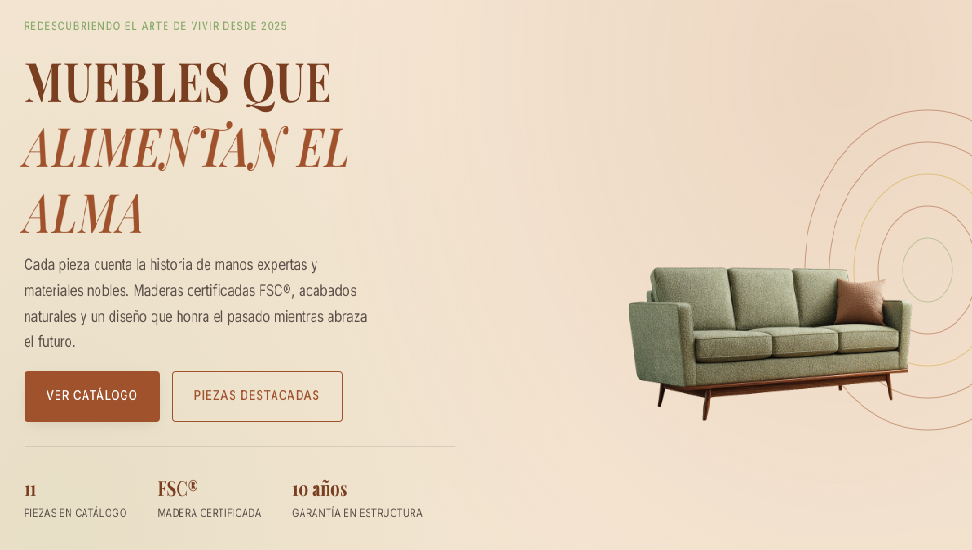
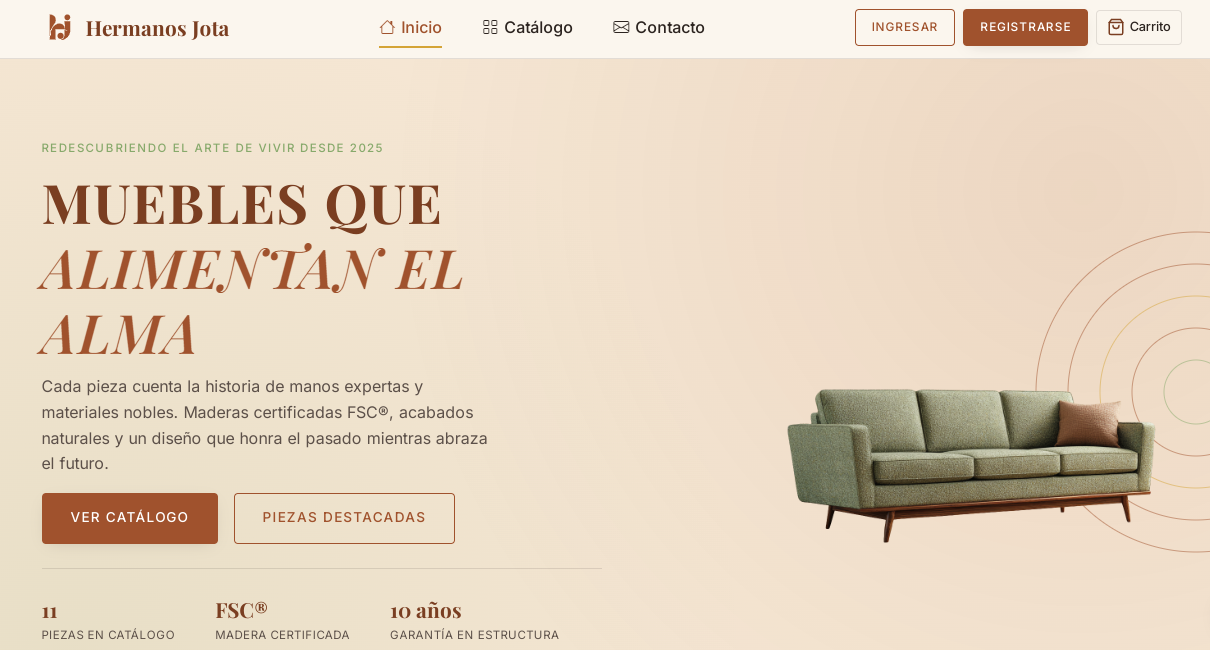
GIF animado en proyectos

diff --git a/index.html b/index.html
@@ -757,6 +757,40 @@
   .hero__subtitle { animation: fadeInUp 0.9s cubic-bezier(0.22, 1, 0.36, 1) 0.25s both; }
   .hero__description { animation: fadeInUp 0.9s cubic-bezier(0.22, 1, 0.36, 1) 0.4s both; }
   .hero .btn      { animation: fadeInUp 0.9s cubic-bezier(0.22, 1, 0.36, 1) 0.55s both; }
+  
+  .project__media {
+  position: relative;
+  width: 100%;
+  height: 200px;
+  overflow: hidden;
+}
+
+.project__media .project__image {
+  position: absolute;
+  top: 0;
+  left: 0;
+  width: 100%;
+  height: 100%;
+  object-fit: cover;
+  transition: opacity 0.4s ease, transform 0.6s ease;
+}
+
+.project__image--gif {
+  opacity: 0;
+}
+
+.project:hover .project__image--gif {
+  opacity: 1;
+}
+
+.project:hover .project__image--static {
+  opacity: 0;
+}
+
+/* Mantener el zoom del hover existente */
+.project:hover .project__media .project__image {
+  transform: scale(1.06);
+}
 </style>
     <link href="https://fonts.googleapis.com/css2?family=Roboto:wght@300;400;500;700&display=swap" rel="stylesheet">
     <script src="https://cdnjs.cloudflare.com/ajax/libs/font-awesome/6.4.0/js/all.min.js"></script>
@@ -906,6 +940,17 @@
             </div>
           </div>
         </div>
+		
+		<div class="project">
+          <img src="./assets/images/proyectos/image13.png" alt="Datos Protegidos" class="project__image" />
+          <div class="project__content">
+            <h3 class="project__title">DiarIA - Inteligencia diaria</h3>
+            <p class="project__description">Blog con IA que reúne artículos, clima, noticias, cotizaciones y productos recomendados en una sola página.</p>
+            <div class="project__links">
+			<a href="https://diaria.ojedaezequiel083.workers.dev/" target="_blank" class="btn">Ver Sitio</a>
+			<a href="https://github.com/EzequielEdOjeda/DiarIA" target="_blank" class="btn btn--outline">Ver GitHub</a></div>
+          </div>
+        </div>
 
         <div class="project">
           <img src="./assets/images/proyectos/image14.png" alt="Club Deportivo" class="project__image" />
@@ -913,15 +958,6 @@
             <h3 class="project__title">Sistema de Club Deportivo</h3>
             <p class="project__description">Proyecto de análisis, diseño, desarrollo, prueba y puesta a punto de un sistema de escritorio para la gestión integral de un club deportivo.</p>
             <div class="project__links"><a href="https://github.com/EzequielEdOjeda/ClubDeportivo" target="_blank" class="btn">Ver Proyecto C#</a></div>
-          </div>
-        </div>
-
-        <div class="project">
-          <img src="./assets/images/proyectos/image13.png" alt="Datos Protegidos" class="project__image" />
-          <div class="project__content">
-            <h3 class="project__title">Datos Protegidos</h3>
-            <p class="project__description">Software sobre un sistema de escritorio para la gestión escolar con una base de datos de Microsoft Access.</p>
-            <div class="project__links"><a href="https://github.com/EzequielEdOjeda/Proyectos-en-Visual-Basic-6" target="_blank" class="btn">Ver Proyectos VB6</a></div>
           </div>
         </div>
 
@@ -971,7 +1007,10 @@
         </div>
 
         <div class="project">
-          <img src="./assets/images/proyectos/image11.png" alt="Proyectos VB6" class="project__image" />
+		  <div class="project__media">
+			<img src="./assets/images/proyectos/image11.png" alt="Proyectos VB6" class="project__image" />
+			<img src="./assets/images/proyectos/vb6.gif" alt="Animación" class="project__image project__image--gif" />
+		  </div>
           <div class="project__content">
             <h3 class="project__title">Proyectos VB 6</h3>
             <p class="project__description">Recopilación de software y herramientas desarrolladas en Visual Basic 6.</p>
@@ -980,7 +1019,10 @@
         </div>
 
         <div class="project">
-          <img src="./assets/images/proyectos/image12.png" alt="Más Proyectos" class="project__image" />
+		  <div class="project__media">
+			<img src="./assets/images/proyectos/image12.png" alt="Más Proyectos" class="project__image" />
+			<img src="./assets/images/proyectos/python.gif" alt="Animación" class="project__image project__image--gif" />
+		  </div>
           <div class="project__content">
             <h3 class="project__title">Más Proyectos</h3>
             <p class="project__description">Explora el resto de mis repositorios y desarrollos en mi perfil oficial.</p>
